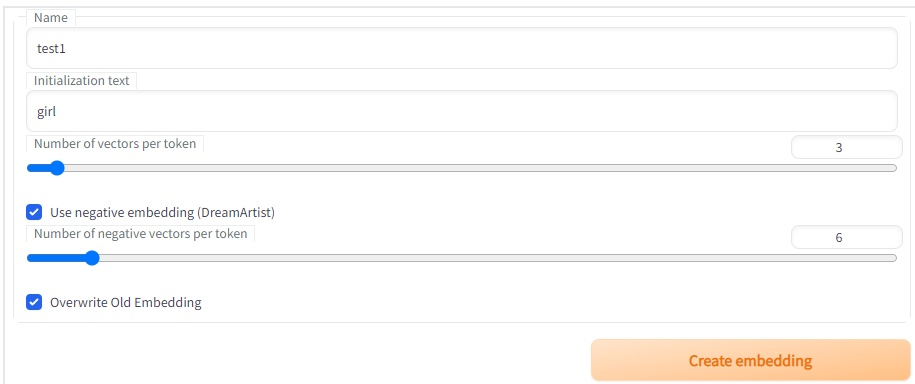
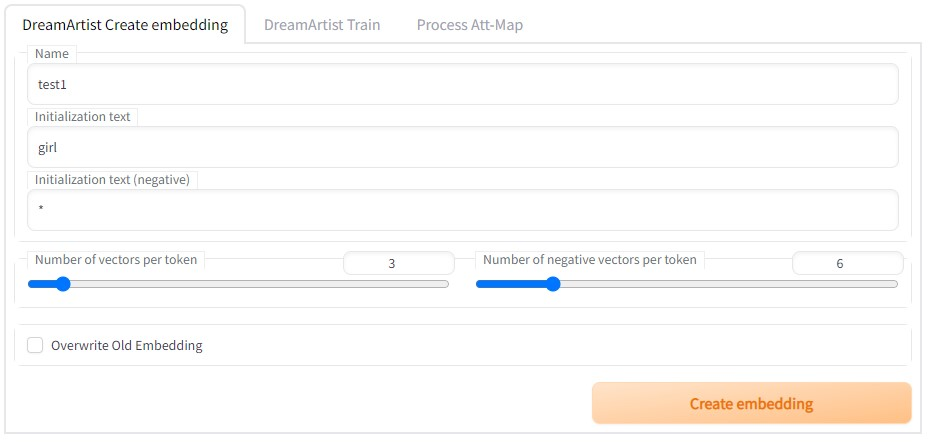
Att-Map, seed lock

diff --git a/scripts/dream_artist_main.py b/scripts/dream_artist_main.py
@@ -1,8 +1,10 @@
 import os
+import random
+
 import gradio as gr
 from modules import scripts, script_callbacks
 import modules
-from modules.ui import create_refresh_button, setup_progressbar
+from modules.ui import create_refresh_button, setup_progressbar, random_symbol
 from modules import sd_hijack, shared
 from modules.paths import script_path
 from webui import wrap_gradio_gpu_call
@@ -24,9 +26,10 @@ def on_ui_tabs():
                 with gr.Tab(label="DreamArtist Create embedding"):
                     new_embedding_name = gr.Textbox(label="Name", interactive=True)
                     initialization_text = gr.Textbox(label="Initialization text", value="*", interactive=True)
-                    nvpt = gr.Slider(label="Number of vectors per token", minimum=1, maximum=75, step=1, value=3, interactive=True)
-                    use_negative = gr.Checkbox(label='Use negative embedding (DreamArtist)', value=True, interactive=True)
-                    nvpt_neg = gr.Slider(label="Number of negative vectors per token", minimum=1, maximum=75, step=1, value=6, interactive=True)
+                    initialization_text_neg = gr.Textbox(label="Initialization text (negative)", value="*", interactive=True)
+                    with gr.Row():
+                        nvpt = gr.Slider(label="Number of vectors per token", minimum=1, maximum=30, step=1, value=3, interactive=True)
+                        nvpt_neg = gr.Slider(label="Number of negative vectors per token", minimum=1, maximum=30, step=1, value=6, interactive=True)
                     overwrite_old_embedding = gr.Checkbox(value=False, label="Overwrite Old Embedding", interactive=True)
 
                     with gr.Row():
@@ -46,18 +49,19 @@ def on_ui_tabs():
                                               lambda: {"choices": sorted(sd_hijack.model_hijack.embedding_db.word_embeddings.keys())},
                                               "refresh_train_embedding_name")
                     with gr.Row():
-                        embedding_learn_rate = gr.Textbox(label='Embedding Learning rate', placeholder="Embedding Learning rate", value="0.005",
+                        embedding_learn_rate = gr.Textbox(label='Embedding Learning rate', placeholder="Embedding Learning rate", value="0.003",
                                                           interactive=True)
                         unet_lr = gr.Textbox(label='Unet Learning rate', placeholder="Unet Learning rate", value="0.000005",
-                                                          interactive=True, visible=False)
+                                             interactive=True, visible=False)
 
                     # support DreamArtist
                     gr.HTML(value='<p style="margin-bottom: 0.7em">DreamArtist</p>')
                     with gr.Row():
                         neg_train = gr.Checkbox(label='Train with DreamArtist', value=True, interactive=True)
                         rec_train = gr.Checkbox(label='Train with reconstruction', value=False, interactive=True)
+                        att_map = gr.Checkbox(label='Attention Map', value=True, interactive=True)
                         unet_train = gr.Checkbox(label='Train U-Net', value=False, interactive=True, visible=False)
-                    cfg_scale = gr.Textbox(label='CFG scale (dynamic cfg: low,high:type e.g. 1.0-3.5:cos)', value="5.0", interactive=True)
+                    cfg_scale = gr.Textbox(label='CFG scale', value="3.0", interactive=True)
                     rec_loss_w = gr.Slider(minimum=0.01, maximum=1.0, step=0.01, label="Reconstruction loss weight", value=1.0, interactive=True)
                     neg_lr_w = gr.Slider(minimum=0.2, maximum=5.0, step=0.05, label="Negative lr weight", value=1.0, interactive=True)
                     disc_path = gr.Textbox(label='Classifier path', placeholder="Path to classifier ckpt, can be empty", value="", interactive=True)
@@ -69,16 +73,16 @@ def on_ui_tabs():
                     log_directory = gr.Textbox(label='Log directory', placeholder="Path to directory where to write outputs", value="dream_artist",
                                                interactive=True)
                     template_file = gr.Textbox(label='Prompt template file',
-                                               value=os.path.join(script_path, "textual_inversion_templates", "style_filewords.txt"), interactive=True)
+                                               value=os.path.join(script_path, "textual_inversion_templates", "subject.txt"), interactive=True)
                     fw_pos_only = gr.Checkbox(label='Positive "filewords" only', value=False, interactive=True)
-                    training_width = gr.Slider(minimum=64, maximum=2048, step=64, label="Width", value=512, interactive=True)
-                    training_height = gr.Slider(minimum=64, maximum=2048, step=64, label="Height", value=512, interactive=True)
-                    steps = gr.Number(label='Max steps', value=100000, precision=0, interactive=True)
-                    create_image_every = gr.Number(label='Save an image to log directory every N steps, 0 to disable', value=500, precision=0,
+                    training_width = gr.Slider(minimum=64, maximum=2048, step=8, label="Width", value=512, interactive=True)
+                    training_height = gr.Slider(minimum=64, maximum=2048, step=8, label="Height", value=512, interactive=True)
+                    steps = gr.Number(label='Max steps', value=8000, precision=0, interactive=True)
+                    create_image_every = gr.Number(label='Save an image to log directory every N steps, 0 to disable', value=100, precision=0,
                                                    interactive=True)
                     save_embedding_every = gr.Number(label='Save a copy of embedding to log directory every N steps, 0 to disable', value=500, precision=0,
                                                      interactive=True)
-                    save_image_with_stored_embedding = gr.Checkbox(label='Save images with embedding in PNG chunks', value=True, interactive=True)
+                    save_image_with_stored_embedding = gr.Checkbox(label='Save images with embedding in PNG chunks', value=False, interactive=True)
                     preview_from_txt2img = gr.Checkbox(label='Read parameters (prompt, etc...) from txt2img tab when making previews', value=False,
                                                        interactive=True)
 
@@ -96,7 +100,23 @@ def on_ui_tabs():
                     with gr.Row():
                         interrupt_training = gr.Button(value="Interrupt", interactive=True)
                         train_embedding = gr.Button(value="Train Embedding", variant='primary', interactive=True)
+
+                with gr.Tab(label="Process Att-Map"):
+                    gr.HTML(value='<p style="margin-bottom: 0.7em">Since there is a self-attention operation in VAE, it may change the distribution of features. This processing will superimpose the attention map of self-attention on the original Att-Map.</p>')
+
+                    data_dir = gr.Textbox(label='Data directory', placeholder="Path to directory with input images", interactive=True)
+
+                    with gr.Row():
+                        att_width = gr.Slider(minimum=64, maximum=2048, step=8, label="Width", value=512, interactive=True)
+                        att_height = gr.Slider(minimum=64, maximum=2048, step=8, label="Height", value=512, interactive=True)
+
+                    proc_att = gr.Button(value="Process", variant='primary', interactive=True)
+
             with gr.Column():
+                with gr.Row():
+                    seed = gr.Number(label='Seed', value=114514, precision=0, interactive=True)
+                    rand_seed_button = gr.Button(value=random_symbol, elem_id="refresh_train_embedding_name")
+
                 progressbar = gr.HTML(elem_id="da_progressbar")
                 da_output = gr.Text(elem_id="da_output", value="", show_label=False)
 
@@ -106,15 +126,22 @@ def on_ui_tabs():
                 da_outcome = gr.HTML(elem_id="da_error", value="")
                 setup_progressbar(progressbar, da_preview, 'da', textinfo=da_progress)
 
+        rand_seed_button.click(
+            fn=lambda: random.randint(0,1<<30),
+            inputs=[],
+            outputs=[seed]
+        )
+
         create_embedding.click(
             fn=dream_artist.ui.create_embedding,
             inputs=[
                 new_embedding_name,
                 initialization_text,
+                initialization_text_neg,
                 nvpt,
                 overwrite_old_embedding,
-                use_negative,
-                nvpt_neg
+                nvpt_neg,
+                seed
             ],
             outputs=[
                 train_embedding_name,
@@ -128,6 +155,7 @@ def on_ui_tabs():
             _js="start_training_dreamartist",
             inputs=[
                 train_embedding_name,
+                seed,
                 embedding_learn_rate,
                 batch_size,
                 dataset_directory,
@@ -144,6 +172,7 @@ def on_ui_tabs():
                 cfg_scale,
                 disc_path,
                 neg_train,
+                att_map,
                 rec_train,
                 rec_loss_w,
                 neg_lr_w,
@@ -163,6 +192,19 @@ def on_ui_tabs():
                 da_output,
                 da_outcome,
             ]
+        )
+
+        proc_att.click(
+            fn=wrap_gradio_gpu_call(dream_artist.ui.proc_att, extra_outputs=[gr.update()]),
+            inputs=[
+                data_dir,
+                att_width,
+                att_height
+            ],
+            outputs=[
+                da_output,
+                da_outcome
+            ],
         )
 
         interrupt_training.click(

diff --git a/scripts/dream_artist/cptuning.py b/scripts/dream_artist/cptuning.py
@@ -2,6 +2,8 @@ import os
 import sys
 import traceback
 
+import cv2
+import numpy as np
 import torch
 import tqdm
 import html
@@ -24,6 +26,8 @@ from modules.textual_inversion.image_embedding import (embedding_to_b64, embeddi
                                                   caption_image_overlay)
 from .convnext_discriminator import XPDiscriminator
 import json
+from torchvision import transforms
+import random
 
 class Embedding:
     def __init__(self, vec, name, step=None):
@@ -335,9 +339,18 @@ def get_cfg_range(cfg_text:str):
     else:
         return float(cfg_text), float(cfg_text), dy_cfg_f
 
-def train_embedding(embedding_name, learn_rate, batch_size, data_root, log_directory, training_width, training_height, steps, create_image_every, save_embedding_every, template_file, save_image_with_stored_embedding, preview_from_txt2img, preview_prompt, preview_negative_prompt, preview_steps, preview_sampler_index, preview_cfg_scale, preview_seed, preview_width, preview_height,
-                    cfg_scale, classifier_path, use_negative, use_rec, rec_loss_w, neg_lr_w, ema_w, ema_rep_step, ema_w_neg, ema_rep_step_neg, adam_beta1, adam_beta2, fw_pos_only, accumulation_steps,
+def set_seed(seed):
+    torch.manual_seed(seed)  # cpu
+    torch.cuda.manual_seed(seed)  # gpu
+    torch.backends.cudnn.deterministic = True  # cudnn
+    np.random.seed(seed)  # numpy
+    random.seed(seed)  # random and transforms
+
+def train_embedding(embedding_name, seed, learn_rate, batch_size, data_root, log_directory, training_width, training_height, steps, create_image_every, save_embedding_every, template_file, save_image_with_stored_embedding, preview_from_txt2img, preview_prompt, preview_negative_prompt, preview_steps, preview_sampler_index, preview_cfg_scale, preview_seed, preview_width, preview_height,
+                    cfg_scale, classifier_path, use_negative, use_att_map, use_rec, rec_loss_w, neg_lr_w, ema_w, ema_rep_step, ema_w_neg, ema_rep_step_neg, adam_beta1, adam_beta2, fw_pos_only, accumulation_steps,
                     unet_train, unet_lr):
+    set_seed(seed)
+
     save_embedding_every = save_embedding_every or 0
     create_image_every = create_image_every or 0
     validate_train_inputs(embedding_name, learn_rate, batch_size, data_root, template_file, steps, save_embedding_every, create_image_every, log_directory, name="embedding")
@@ -414,9 +427,8 @@ def train_embedding(embedding_name, learn_rate, batch_size, data_root, log_direc
         'size': [training_width, training_height],
         'neg': use_negative,
         'rec': use_rec,
+        'seed': seed,
         'prompt_len': embedding.vec.shape,
-        'ema': [ema_w, ema_w_neg],
-        'ema_steps': [ema_rep_step, ema_rep_step_neg],
     }
     if use_negative:
         hyper_param['prompt_len_neg'] = embedding_neg.vec.shape
@@ -515,9 +527,12 @@ def train_embedding(embedding_name, learn_rate, batch_size, data_root, log_direc
                 c_in = cond_model([entry.cond_text for entry in entries])
 
             x = torch.stack([entry.latent for entry in entries]).to(devices.device)
-            att_mask = torch.stack([(entry.att_mask if entry.att_mask is not None else torch.ones_like(entry.latent)) for entry in entries]).to(devices.device)
 
-            output = shared.sd_model(x, c_in, scale=(cfg_l, cfg_h), att_mask=att_mask, dy_cfg_f=dy_cfg_f)
+            if use_att_map:
+                att_mask = torch.stack([(entry.att_mask if entry.att_mask is not None else torch.ones_like(entry.latent)) for entry in entries]).to(devices.device)
+                output = shared.sd_model(x, c_in, scale=(cfg_l, cfg_h), att_mask=att_mask, dy_cfg_f=dy_cfg_f)
+            else:
+                output = shared.sd_model(x, c_in, scale=(cfg_l, cfg_h), att_mask=None, dy_cfg_f=dy_cfg_f)
 
             if disc is not None or use_rec:
                 x_samples_ddim = shared.sd_model.decode_first_stage.__wrapped__(shared.sd_model, output[2])  # forward with grad
@@ -660,6 +675,10 @@ def train_embedding(embedding_name, learn_rate, batch_size, data_root, log_direc
             last_saved_image, last_text_info = images.save_image(image, images_dir, "", p.seed, p.prompt, shared.opts.samples_format, processed.infotexts[0], p=p, forced_filename=forced_filename, save_to_dirs=False)
             last_saved_image += f", prompt: {preview_text}"
 
+            #set seed, seed is change by p
+            seed+=1
+            set_seed(seed)
+
         shared.state.job_no = embedding.step
 
         shared.state.textinfo = f"""
@@ -706,7 +725,6 @@ def save_embedding(embedding, checkpoint, embedding_name, filename, remove_cache
             embedding_neg.name = embedding_name+'-neg'
             embedding_neg.save(f'{filename[:-3]}-neg.pt')
 
-            #torch.save({f'part{i}':layer.state_dict() for i,layer in enumerate(unet_layers)}, f'{filename[:-3]}-unet.ckpt')
     except:
         embedding.sd_checkpoint = old_sd_checkpoint
         embedding.sd_checkpoint_name = old_sd_checkpoint_name
@@ -719,5 +737,60 @@ def save_embedding(embedding, checkpoint, embedding_name, filename, remove_cache
             embedding_neg.name = old_embedding_name+'-neg'
             embedding_neg.cached_checksum = old_cached_checksum
 
-            #torch.save({f'part{i}': layer.state_dict() for i, layer in enumerate(unet_layers)}, f'{filename[:-3]}-unet.ckpt')
         raise
+
+def proc_att(data_root, training_width, training_height):
+    shared.sd_model.first_stage_model.to(devices.device)
+
+    shared.state.textinfo = "Processing Att-Map"
+    shared.state.job_count = 0
+
+    att_map=[None]
+    att_proc=[None]
+
+    with torch.autocast("cuda"):
+        ds = DA_dataset.DataAtt(data_root=data_root, width=training_width, height=training_height)
+
+    def att_hook(module, x, output):
+        h_ = x[0]
+        h_ = module.norm(h_)
+        q = module.q(h_)
+        k = module.k(h_)
+        v = att_map[0]
+
+        # compute attention
+        b, c, h, w = q.shape
+        q = q.reshape(b, c, h * w)
+        q = q.permute(0, 2, 1)  # b,hw,c
+        k = k.reshape(b, c, h * w)  # b,c,hw
+        w_ = torch.bmm(q, k)  # b,hw,hw    w[b,i,j]=sum_c q[b,i,c]k[b,c,j]
+        w_ = w_ * (int(c) ** (-0.5))
+        w_ = torch.nn.functional.softmax(w_, dim=2)
+
+        # attend to values
+        v = v.reshape(b, 1, h * w)
+        w_ = w_.permute(0, 2, 1)  # b,hw,hw (first hw of k, second of q)
+        proc = (torch.bmm(v, w_)-v.mean() + v).clamp(0.,1.)
+        att_proc[0] = proc.view(b,1,h,w)  # b, c,hw (hw of q) h_[b,c,j] = sum_i v[b,c,i] w_[b,i,j]
+        #att_proc[0] = v.view(b, 1, h, w)
+
+    hook = shared.sd_model.first_stage_model.encoder.mid.attn_1.register_forward_hook(att_hook)
+
+    pbar = tqdm.tqdm(enumerate(ds), total=len(ds))
+    import torch.nn.functional as F
+    for i, entries in pbar:
+        with torch.autocast("cuda"):
+            timg = torch.cat([entry.timg for entry in entries]).to(devices.device)
+            att_map[0]=torch.stack([(entry.att_mask if entry.att_mask is not None else torch.ones_like(entry.latent)) for entry in entries]).to(devices.device)
+            #att_map[0] = F.interpolate(timg, scale_factor=1/8, mode='bicubic')
+            shared.sd_model.encode_first_stage(timg)
+
+            att_map_new = att_proc[0].detach().cpu().squeeze(0)#.permute(1,2,0).numpy().astype(np.uint8)
+            #att_map_new = cv2.resize(att_map_new, (0, 0), fx=8, fy=8, interpolation=cv2.INTER_CUBIC)
+            att_map_new = transforms.ToPILImage()(att_map_new)
+            #att_map_new = att_map_new.resize((int(att_map_new.size[0]*8), int(att_map_new.size[1]*8)), PIL.Image.BICUBIC)
+            att_map_new.save(entries[0].filename[:entries[0].filename.rfind('.')]+'_att_proc'+entries[0].filename[entries[0].filename.rfind('.'):])
+
+        shared.state.job_no = i
+
+    hook.remove()

diff --git a/scripts/dream_artist/ui.py b/scripts/dream_artist/ui.py
@@ -7,11 +7,13 @@ import scripts.dream_artist as dream_artist
 from modules import sd_hijack, shared
 
 
-def create_embedding(name, initialization_text, nvpt, overwrite_old, use_negative, nvpt_neg):
+def create_embedding(name, initialization_text, initialization_text_neg, nvpt, overwrite_old, nvpt_neg, seed):
+    dream_artist.cptuning.set_seed(seed)
+
     filename = dream_artist.cptuning.create_embedding(name, nvpt, overwrite_old, init_text=initialization_text)
-    if use_negative:
-        dream_artist.cptuning.create_embedding(name+'-neg', nvpt_neg, overwrite_old, init_text=initialization_text)
-        filename=f'{filename} and {filename[:-3]}-neg.pt'
+    filename_neg = dream_artist.cptuning.create_embedding(name+'-neg', nvpt_neg, overwrite_old, init_text=initialization_text_neg)
+
+    filename=f'{filename} and {filename_neg}'
 
     sd_hijack.model_hijack.embedding_db.load_textual_inversion_embeddings()
 
@@ -40,3 +42,19 @@ Embedding saved to {html.escape(filename)} and {html.escape(filename[:-3]+"-neg.
         if not apply_optimizations:
             sd_hijack.apply_optimizations()
 
+
+def proc_att(*args):
+
+    apply_optimizations = shared.opts.training_xattention_optimizations
+    try:
+        if not apply_optimizations:
+            sd_hijack.undo_optimizations()
+
+        dream_artist.cptuning.proc_att(*args)
+
+        return "process finish", ""
+    except Exception:
+        raise
+    finally:
+        if not apply_optimizations:
+            sd_hijack.apply_optimizations()

diff --git a/scripts/dream_artist/dataset.py b/scripts/dream_artist/dataset.py
@@ -127,7 +127,7 @@ class PersonalizedBase(Dataset):
                 print(att_path)
                 att_mask = Image.open(att_path).convert('L').resize((self.width//8, self.height//8), PIL.Image.BICUBIC)
                 np_mask = np.array(att_mask).astype(float)[:,:,None]
-                np_mask[np_mask<=127+0.1]=(np_mask[np_mask<=127+0.1]/127.)*0.99+0.01
+                np_mask[np_mask<=127+0.1]=(np_mask[np_mask<=127+0.1]/127.)#*0.99+0.01
                 np_mask[np_mask>127]=((np_mask[np_mask>127]-127)/128.)*4+1
 
                 torchdata = torch.from_numpy(np_mask).to(device=device, dtype=torch.float32)

diff --git a/README.md b/README.md
@@ -51,16 +51,36 @@ Remember to check the option below, otherwise the preview is wrong.
 Fill the trained positive and negative embedding into txt2img to generate with DreamArtist prompt.
 ![](imgs/gen.jpg)
 
+### Attention Mask
+Attention Mask can strengthen or weaken the learning intensity of some local areas. 
+Attention Mask is a grayscale image whose grayscale values are related to the learning intensity show in the following table.
+
+| grayscale | 0% | 25% | 50%  | 75%  | 100% |
+|-----------|----|-----|------|------|------|
+| intensity | 0% | 50% | 100% | 300% | 500% |
+
+The Attention Mask is in the same folder as the training image and its name is the name of the training image + "_att".
+You can choose whether to enable Attention Mask for training.
+![](imgs/att_map.jpg)
+
+Since there is a self-attention operation in VAE, it may change the distribution of features. 
+In the ***Process Att-Map*** tab, it can superimpose the attention map of self-attention on the original Att-Map.
+
+### Dynamic CFG
+Dynamic CFG can improve the performance, especially when the data set is large (>20). 
+For example, linearly from 1.5 to 3.0 (1.5-3.0), or with a 0-π/2 cycle of cosine (1.5-3.0:cos), or with a -π/2-0 cycle of cosine (1.5-3.0:cos2).
+Or you can also customize non-linear functions, such as 2.5-3.5:torch.sqrt(rate), where rate is a variable from 0-1.
+
 ## Tested models (need ema version):
++ Stable Diffusion v1.4
 + Stable Diffusion v1.5
 + animefull-latest
 + Anything v3.0
++ momoko-e
 
 Embeddings can be transferred between different models of the same dataset.
 
 ## Pre-trained embeddings:
-
-
 
 [Download](https://github.com/7eu7d7/DreamArtist-stable-diffusion/releases/tag/embeddings_v2)
 
